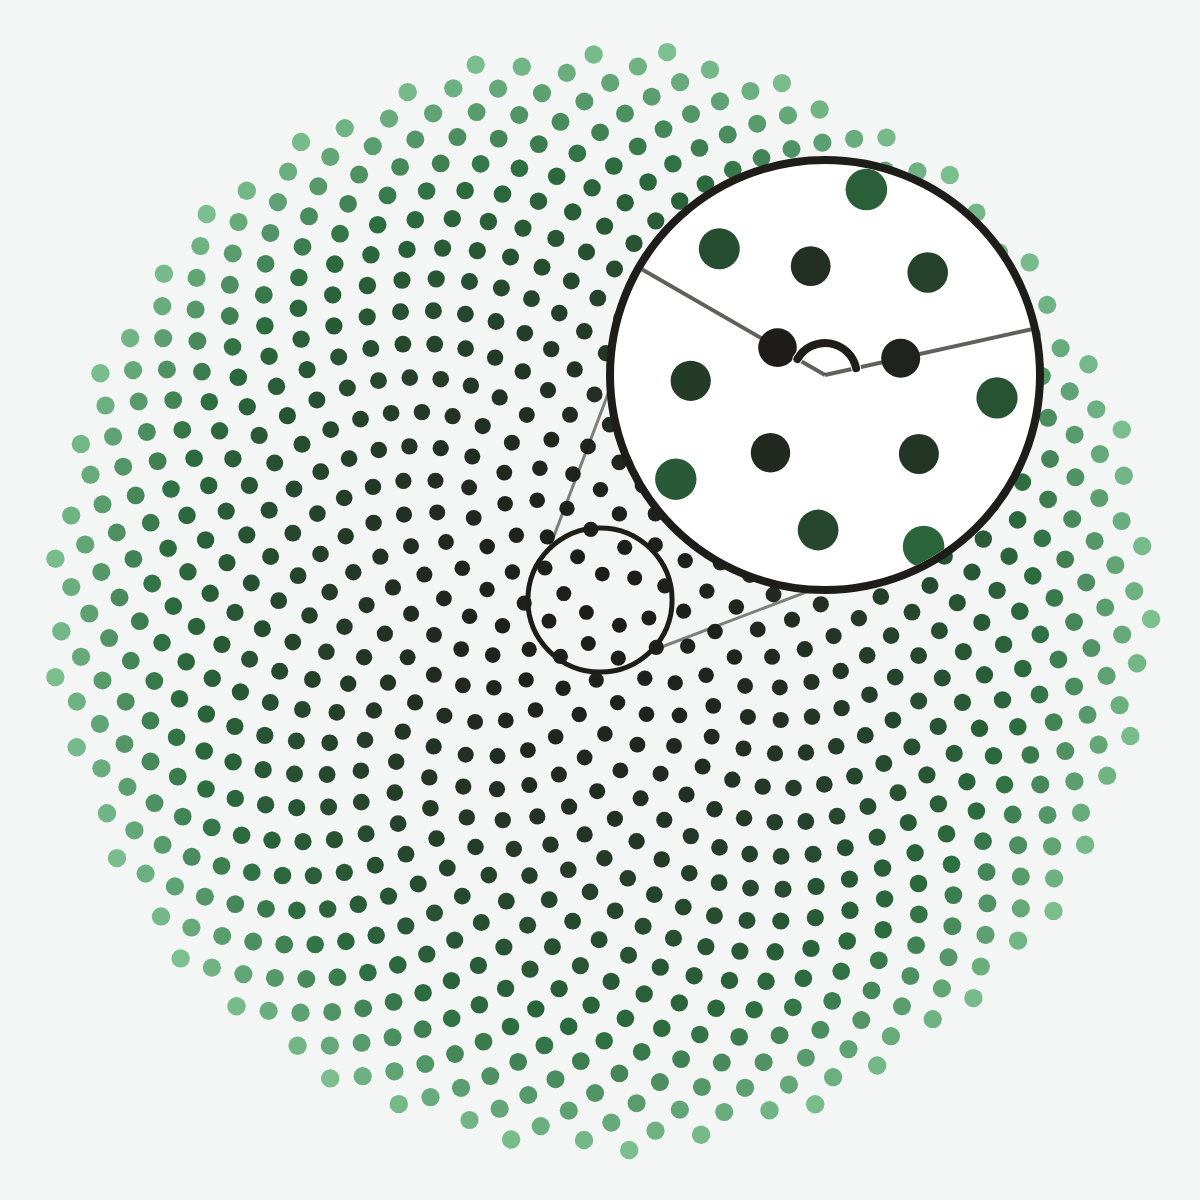
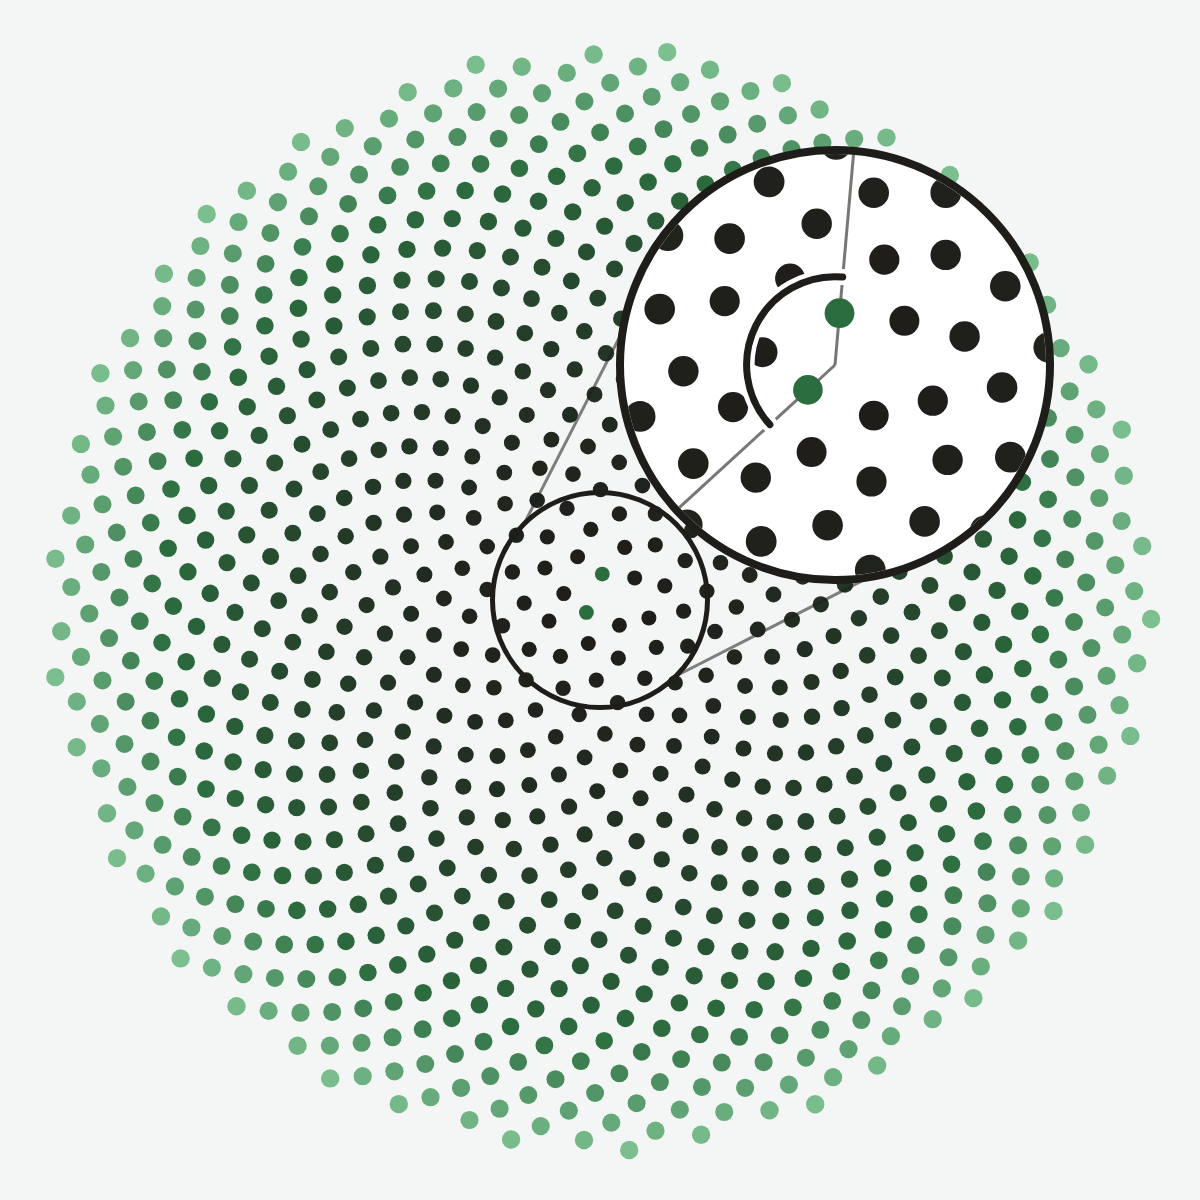
girasol-zoom: ampliación fiel del centro, sin girar, con semillas 1 y 2 en verde
Claude-Session: https://claude.ai/code/session_01Kwrj1aJqv3F9rgwxPu8ASz

Changed region(s): [[0.4008, 0.1233, 0.8942, 0.5858]]

diff --git a/synergos/imagenes/girasol-build.py b/synergos/imagenes/girasol-build.py
@@ -157,3 +157,42 @@ def svg_zoom(size=1200, N=900):
     return "\n".join(o)
 
 open("girasol-zoom.svg","w").write(svg_zoom())
+
+def svg_zoom_fiel(size=1200, N=900, s=2.0):
+    """Zoom fiel: la lente muestra exactamente las semillas del círculo marcado, sin girar, ampliadas s veces."""
+    cx, cy, R0 = 600, 600, 552
+    c0 = R0/math.sqrt(N)
+    lx, ly, RL = cx+235, cy-235, 215
+    rs = RL/s                              # radio de la zona ampliada
+    o=[f'<svg xmlns="http://www.w3.org/2000/svg" viewBox="0 0 {size} {size}" width="{size}" height="{size}"><defs><clipPath id="lente"><circle cx="{lx}" cy="{ly}" r="{RL-4}"/></clipPath></defs><rect width="{size}" height="{size}" fill="{BG}"/>']
+    def color(n):
+        if n<=2: return GREEN            # las dos primeras semillas, en el verde del logo
+        return mix(INK,GREEN,min(1,n/N*1.6)) if n<N*0.62 else mix(GREEN,LIGHT,(n/N-0.62)/0.38)
+    for n in range(1,N+1):
+        r=c0*math.sqrt(n); th=n*GA
+        rad=c0*(0.40+0.10*math.sqrt(n/N))
+        o.append(f'<circle cx="{cx+r*math.cos(th):.1f}" cy="{cy+r*math.sin(th):.1f}" r="{rad:.1f}" fill="{color(n)}"/>')
+    dx, dy = lx-cx, ly-cy; L=math.hypot(dx,dy); ux, uy = dx/L, dy/L; nx, ny = -uy, ux
+    for sg in (1,-1):
+        o.append(f'<line x1="{cx+sg*nx*rs:.1f}" y1="{cy+sg*ny*rs:.1f}" x2="{lx+sg*nx*RL:.1f}" y2="{ly+sg*ny*RL:.1f}" stroke="{INK}" stroke-width="3" opacity="0.55"/>')
+    o.append(f'<circle cx="{cx}" cy="{cy}" r="{rs:.1f}" fill="none" stroke="{INK}" stroke-width="5"/>')
+    o.append(f'<circle cx="{lx}" cy="{ly}" r="{RL}" fill="#FFFFFF" stroke="{INK}" stroke-width="8"/>')
+    o.append('<g clip-path="url(#lente)">')
+    a1=GA; a2=2*GA                          # direcciones reales de las semillas 1 y 2
+    for a in (a1,a2):
+        o.append(f'<line x1="{lx}" y1="{ly}" x2="{lx+RL*math.cos(a):.1f}" y2="{ly+RL*math.sin(a):.1f}" stroke="{INK}" stroke-width="3" opacity="0.6"/>')
+    for n in range(1,N+1):
+        r=c0*math.sqrt(n)*s
+        if r>RL*1.05: break
+        th=n*GA
+        rad=c0*(0.40+0.10*math.sqrt(n/N))*s
+        o.append(f'<circle cx="{lx+r*math.cos(th):.1f}" cy="{ly+r*math.sin(th):.1f}" r="{rad:.1f}" fill="{color(n)}"/>')
+    ra=c0*s*2.4
+    p1=(lx+ra*math.cos(a1), ly+ra*math.sin(a1)); p2=(lx+ra*math.cos(a2), ly+ra*math.sin(a2))
+    arc=f'M{p1[0]:.1f},{p1[1]:.1f} A{ra:.1f},{ra:.1f} 0 0 1 {p2[0]:.1f},{p2[1]:.1f}'
+    o.append(f'<path d="{arc}" fill="none" stroke="#FFFFFF" stroke-width="16" stroke-linecap="round"/>')
+    o.append(f'<path d="{arc}" fill="none" stroke="{INK}" stroke-width="7" stroke-linecap="round"/>')
+    o.append('</g></svg>')
+    return "\n".join(o)
+
+open("girasol-zoom.svg","w").write(svg_zoom_fiel())

diff --git a/synergos/04-bitacora.md b/synergos/04-bitacora.md
@@ -77,3 +77,4 @@ Registro cronológico de cómo evoluciona la idea. Entradas breves: qué se disc
 - 27 oct, tarde: Alejandro descarta girasol-trozo porque parece un abanico. Nueva versión girasol-porcion: el girasol entero con las semillas fuera de los 137,5 grados muy tenues y el trozo destacado, con el arco en el vértice.
 - 27 oct, tarde: Alejandro descarta también girasol-porcion (sigue pareciendo un abanico) y propone representar un trozo con zoom. Resultado: girasol-zoom, el girasol entero con un círculo en el centro y una lente que amplía esas semillas con el ángulo entre las dos primeras (arco, sin cifra).
 - 27 oct, tarde: girasol-zoom reencuadrado a petición de Alejandro: la lente va superpuesta al girasol y no sobresale de su contorno.
+- 27 oct, tarde: Alejandro observa que en el zoom se pierde la simetría. Causa: la lente giraba las semillas y mostraba solo 13. Rehecho como ampliación fiel (x2) del círculo marcado, sin girar, con las semillas 1 y 2 en verde, los dos rayos reales y el arco de 137,5 grados.
